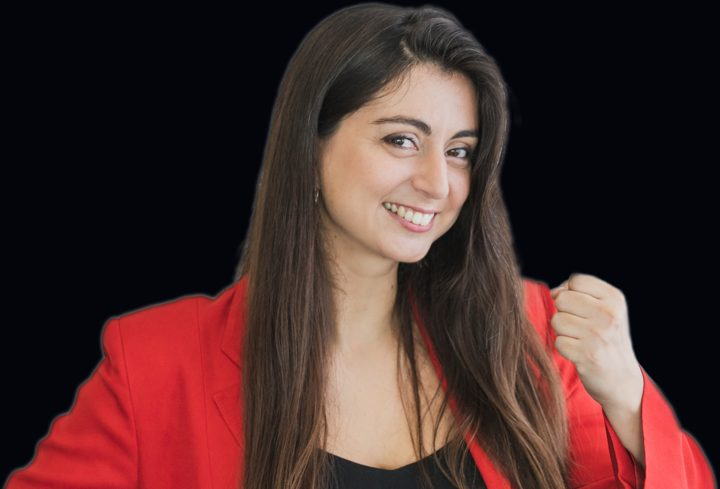
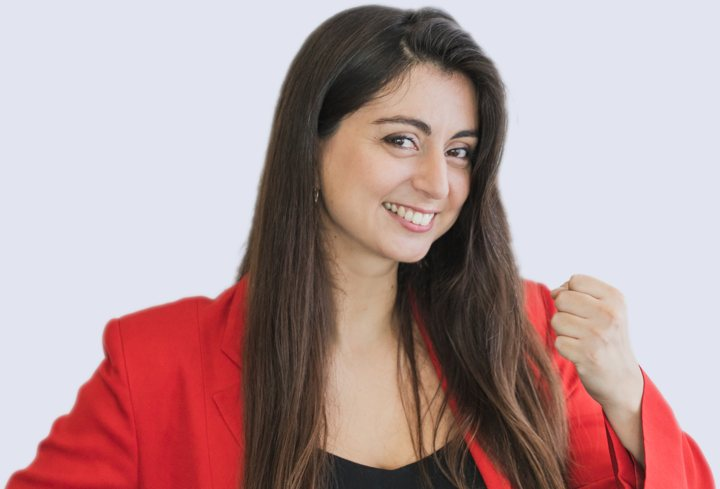
CosmoVentures: light palette with dark text and larger type
Claude-Session: https://claude.ai/code/session_01U1oRPeEpRTEgi3AVjTu7gd

diff --git a/assets/css/cosmoventures.css b/assets/css/cosmoventures.css
@@ -1,6 +1,33 @@
-/* CosmoVentures: consulting-studio layout built on home.css tokens (void / ink / dim / faint / glow, Roboto + Roboto Mono) */
-body.cv{font-family:"Roboto",Helvetica,Arial,sans-serif;font-weight:400;font-size:16px;line-height:1.65}
-body.cv::before{content:"";position:fixed;inset:0;z-index:-1;background:linear-gradient(180deg,rgba(4,5,11,.55),rgba(4,5,11,.86) 40%,rgba(4,5,11,.94))}
+/* CosmoVentures: light consulting-studio layout. Same fonts and structure as the homepage, redefined as a light palette. */
+html:has(body.cv),body.cv{
+  --void:#f3f4f8;      /* page: cool paper with a hint of the web's periwinkle */
+  --card:#ffffff;
+  --ink:#13152b;       /* deep navy text */
+  --dim:#454a63;
+  --faint:#6b7089;
+  --glow:#3346b0;      /* accent: deep indigo, readable on light */
+  --glow-soft:rgba(51,70,176,.14);
+  --line:rgba(19,21,43,.13);
+  color-scheme:light;
+}
+body.cv{font-family:"Roboto",Helvetica,Arial,sans-serif;font-weight:400;font-size:17.5px;line-height:1.65;background:var(--void);color:var(--ink)}
+body.cv nav.site{background:rgba(243,244,248,.88);border-bottom-color:var(--line)}
+body.cv nav.site li a{color:var(--dim)}
+body.cv nav.site li a:hover{color:var(--ink)}
+body.cv .brand{color:var(--ink)}
+body.cv .burger{color:var(--ink);border-color:var(--line)}
+body.cv .btn{border-color:rgba(19,21,43,.3);color:var(--ink);font-size:12.5px;padding:12px 20px}
+body.cv .btn:hover{border-color:var(--ink);background:rgba(19,21,43,.04)}
+body.cv .btn.primary{background:var(--ink);color:#fff;border-color:var(--ink)}
+body.cv .btn.primary:hover{background:var(--glow);border-color:var(--glow)}
+body.cv .tlink{font-size:12.5px}
+body.cv footer{font-size:13px}
+body.cv .flogo img{opacity:1}
+@media (max-width:1180px){body.cv nav.site ul{background:rgba(243,244,248,.98)}}
+.cv h1,.cv h2{font-family:var(--display);font-weight:900;text-wrap:balance;margin:0;color:var(--ink)}
+.cv h3{font-family:"Roboto",Helvetica,Arial,sans-serif;font-weight:500;margin:0;text-wrap:balance}
+.eyebrow,.lbl,.facts dt,.svc-meta dt,.step,.cv-sections a,.more,.inst{font-family:var(--mono)}
+
 .cv-wrap{max-width:1180px;margin:0 auto;padding-inline:16px}
 .cv h1,.cv h2{font-family:var(--display);font-weight:900;text-wrap:balance;margin:0}
 .cv h3{font-family:"Roboto",Helvetica,Arial,sans-serif;font-weight:500;margin:0;text-wrap:balance}
@@ -10,57 +37,57 @@ body.cv::before{content:"";position:fixed;inset:0;z-index:-1;background:linear-g
 .cv-hero{padding-block:84px 0}
 .cv-hero-in{display:grid;grid-template-columns:minmax(0,1.5fr) minmax(0,1fr);gap:64px;align-items:end}
 .cv-hero .eyebrow{color:var(--glow);letter-spacing:.16em}
-.cv-hero h1{font-size:clamp(36px,4.8vw,60px);line-height:1.03;letter-spacing:-.015em;margin-top:14px}
-.cv-sub{font-size:clamp(17px,1.6vw,20px);line-height:1.5;color:var(--ink);margin:22px 0 0;max-width:46ch}
+.cv-hero h1{font-size:clamp(40px,5.2vw,66px);line-height:1.03;letter-spacing:-.015em;margin-top:14px}
+.cv-sub{font-size:clamp(19px,1.8vw,23px);line-height:1.5;color:var(--ink);margin:22px 0 0;max-width:46ch}
 .cv-lead{color:var(--dim);margin:14px 0 0;max-width:62ch}
 .cv-hero .ctas{margin-top:30px}
 .facts{margin:0;border-left:1px solid var(--line);padding-left:28px;display:grid;gap:0}
 .facts div{padding:14px 0;border-bottom:1px solid var(--line)}
 .facts div:last-child{border-bottom:0}
-.facts dt{font-size:10.5px;letter-spacing:.18em;text-transform:uppercase;color:var(--faint)}
-.facts dd{margin:4px 0 0;color:var(--ink);font-size:15px}
+.facts dt{font-size:11.5px;letter-spacing:.18em;text-transform:uppercase;color:var(--faint)}
+.facts dd{margin:4px 0 0;color:var(--ink);font-size:17px}
 .cv-sections{display:flex;flex-wrap:wrap;gap:4px 28px;margin-top:64px;padding-block:16px;border-top:1px solid var(--line)}
-.cv-sections a{font-size:11.5px;letter-spacing:.16em;text-transform:uppercase;text-decoration:none;color:var(--dim)}
+.cv-sections a{font-size:12.5px;letter-spacing:.16em;text-transform:uppercase;text-decoration:none;color:var(--dim)}
 .cv-sections a:hover{color:var(--ink)}
 
 /* bands */
 .cv-band{padding-block:72px;border-top:1px solid var(--line);scroll-margin-top:64px}
-.cv-band h2{font-size:clamp(26px,3vw,36px);line-height:1.1;margin-bottom:32px}
+.cv-band h2{font-size:clamp(30px,3.4vw,42px);line-height:1.1;margin-bottom:32px}
 .cv-band > .cv-lead{margin:-16px 0 32px}
 
 .problems{list-style:none;margin:0;padding:0;display:grid;grid-template-columns:repeat(2,minmax(0,1fr));column-gap:48px}
 .problems li{position:relative;padding:16px 0 16px 22px;border-top:1px solid var(--line);color:var(--ink);min-width:0}
-.problems li::before{content:"";position:absolute;left:2px;top:27px;width:6px;height:6px;border-radius:50%;background:var(--glow);box-shadow:0 0 8px rgba(185,198,255,.7)}
+.problems li::before{content:"";position:absolute;left:2px;top:27px;width:6px;height:6px;border-radius:50%;background:var(--glow);box-shadow:none}
 
 /* services */
 .svc-grid{display:grid;grid-template-columns:repeat(2,minmax(0,1fr));gap:20px}
-.svc{display:flex;flex-direction:column;padding:28px;background:rgba(10,12,26,.8);border:1px solid var(--line);border-radius:4px;min-width:0;scroll-margin-top:72px;transition:border-color .3s,box-shadow .3s}
-.svc:target{border-color:var(--glow);box-shadow:0 0 0 1px var(--glow),0 0 32px rgba(185,198,255,.18)}
-.svc h3{font-family:var(--display);font-weight:900;font-size:22px;line-height:1.2}
-.svc-for{color:var(--dim);margin:10px 0 18px;font-size:15px}
-.lbl{font-size:10.5px;letter-spacing:.18em;text-transform:uppercase;color:var(--faint);margin:0 0 8px}
+.svc{display:flex;flex-direction:column;padding:28px;background:var(--card);border:1px solid var(--line);border-radius:6px;box-shadow:0 1px 2px rgba(19,21,43,.04),0 8px 24px rgba(19,21,43,.05);min-width:0;scroll-margin-top:72px;transition:border-color .3s,box-shadow .3s}
+.svc:target{border-color:var(--glow);box-shadow:0 0 0 2px var(--glow),0 12px 32px var(--glow-soft)}
+.svc h3{font-family:var(--display);font-weight:900;font-size:25px;line-height:1.2}
+.svc-for{color:var(--dim);margin:10px 0 18px;font-size:17px}
+.lbl{font-size:11.5px;letter-spacing:.18em;text-transform:uppercase;color:var(--faint);margin:0 0 8px}
 .ticks{list-style:none;margin:0 0 24px;padding:0;display:grid;gap:6px}
-.ticks li{position:relative;padding-left:20px;font-size:15px}
+.ticks li{position:relative;padding-left:20px;font-size:16.5px}
 .ticks li::before{content:"";position:absolute;left:0;top:.8em;width:10px;height:1px;background:var(--glow)}
 .svc-meta{margin:auto 0 0;padding-top:16px;border-top:1px solid var(--line);display:grid;grid-template-columns:repeat(2,minmax(0,1fr));gap:16px}
-.svc-meta dt{font-size:10.5px;letter-spacing:.16em;text-transform:uppercase;color:var(--faint)}
-.svc-meta dd{margin:4px 0 0;font-weight:500;font-variant-numeric:tabular-nums}
+.svc-meta dt{font-size:11.5px;letter-spacing:.16em;text-transform:uppercase;color:var(--faint)}
+.svc-meta dd{margin:4px 0 0;font-weight:500;font-size:17px;font-variant-numeric:tabular-nums}
 .svc-meta div:last-child dd{color:var(--glow)}
-.note{color:var(--faint);font-size:13.5px;margin:20px 0 0;max-width:80ch}
+.note{color:var(--faint);font-size:15px;margin:20px 0 0;max-width:80ch}
 
 /* clients */
 .who-grid{display:grid;grid-template-columns:repeat(3,minmax(0,1fr));gap:28px 36px}
 .who{border-top:1px solid var(--line);padding-top:16px;min-width:0}
-.who h3{font-size:17px;line-height:1.3}
-.who p{color:var(--dim);font-size:14.5px;margin:8px 0 0}
+.who h3{font-size:19px;line-height:1.3}
+.who p{color:var(--dim);font-size:16px;margin:8px 0 0}
 
 /* process: a real sequence */
 .steps{list-style:none;margin:0;padding:0;display:grid;grid-template-columns:repeat(4,minmax(0,1fr));gap:24px}
-.steps li{position:relative;padding-top:22px;border-top:2px solid rgba(185,198,255,.35);min-width:0}
-.steps li::before{content:"";position:absolute;top:-6px;left:0;width:10px;height:10px;border-radius:50%;background:var(--glow);box-shadow:0 0 10px rgba(185,198,255,.8)}
-.step{display:block;font-size:12px;letter-spacing:.14em;color:var(--glow);margin-bottom:6px}
-.steps h3{font-size:17px}
-.steps p{color:var(--dim);font-size:14.5px;margin:8px 0 0}
+.steps li{position:relative;padding-top:22px;border-top:2px solid var(--glow-soft);min-width:0}
+.steps li::before{content:"";position:absolute;top:-6px;left:0;width:10px;height:10px;border-radius:50%;background:var(--glow);box-shadow:0 0 0 4px var(--glow-soft)}
+.step{display:block;font-size:13px;letter-spacing:.14em;color:var(--glow);margin-bottom:6px}
+.steps h3{font-size:19px}
+.steps p{color:var(--dim);font-size:16px;margin:8px 0 0}
 
 /* work */
 .work-layout{display:grid;grid-template-columns:minmax(0,300px) minmax(0,1fr);gap:40px;align-items:start}
@@ -68,13 +95,13 @@ body.cv::before{content:"";position:fixed;inset:0;z-index:-1;background:linear-g
 .collage img{display:block;width:100%;height:auto;border-radius:4px;border:1px solid var(--line)}
 .proj-grid{display:grid;grid-template-columns:repeat(2,minmax(0,1fr));gap:24px 32px}
 .proj{border-top:1px solid var(--line);padding-top:16px;min-width:0}
-.proj h3{font-size:17px}
-.proj p{color:var(--dim);font-size:14.5px;margin:8px 0 0}
-.more{display:inline-block;margin-top:10px;font-size:11.5px;letter-spacing:.14em;text-transform:uppercase;color:var(--glow);text-decoration:none}
+.proj h3{font-size:19px}
+.proj p{color:var(--dim);font-size:16px;margin:8px 0 0}
+.more{display:inline-block;margin-top:10px;font-size:12.5px;letter-spacing:.14em;text-transform:uppercase;color:var(--glow);text-decoration:none}
 .more:hover{text-decoration:underline}
-.cv .sub-h{font-size:18px;margin:64px 0 16px}
+.cv .sub-h{font-size:22px;margin:64px 0 16px}
 .evidence{list-style:none;margin:0;padding:0;display:grid;grid-template-columns:repeat(2,minmax(0,1fr));column-gap:48px}
-.evidence li{padding:12px 0 12px 22px;border-top:1px solid var(--line);position:relative;color:var(--dim);font-size:15px;min-width:0}
+.evidence li{padding:12px 0 12px 22px;border-top:1px solid var(--line);position:relative;color:var(--dim);font-size:16.5px;min-width:0}
 .evidence li::before{content:"";position:absolute;left:0;top:1.35em;width:10px;height:1px;background:var(--glow)}
 
 /* founder */
@@ -82,10 +109,12 @@ body.cv::before{content:"";position:fixed;inset:0;z-index:-1;background:linear-g
 .founder img{display:block;width:100%;height:auto;border-radius:4px}
 .founder h2{margin-bottom:16px}
 .founder .cv-lead{margin:0}
-.inst{font-size:12px;letter-spacing:.12em;color:var(--glow);margin:18px 0 16px}
+.inst{font-size:13px;letter-spacing:.12em;color:var(--glow);margin:18px 0 16px}
 
 /* contact */
-.cta{margin-bottom:48px}
+.cta{margin-bottom:56px;background:var(--card);border:1px solid var(--line);border-radius:6px;padding:48px}
+.cta .mail{color:var(--dim)}
+.cta .mail .addr{color:var(--ink);font-weight:500}
 .cta .mail{margin:22px 0 0}
 .cta .ctas{margin-top:22px}
 
@@ -102,6 +131,7 @@ body.cv::before{content:"";position:fixed;inset:0;z-index:-1;background:linear-g
   .founder{grid-template-columns:1fr;gap:28px}
 }
 @media (max-width:560px){
+  .cta{padding:28px 22px}
   .problems,.who-grid,.steps,.proj-grid,.evidence,.facts{grid-template-columns:1fr}
   .facts div:nth-last-child(2){border-bottom:1px solid var(--line)}
   .svc{padding:22px}
